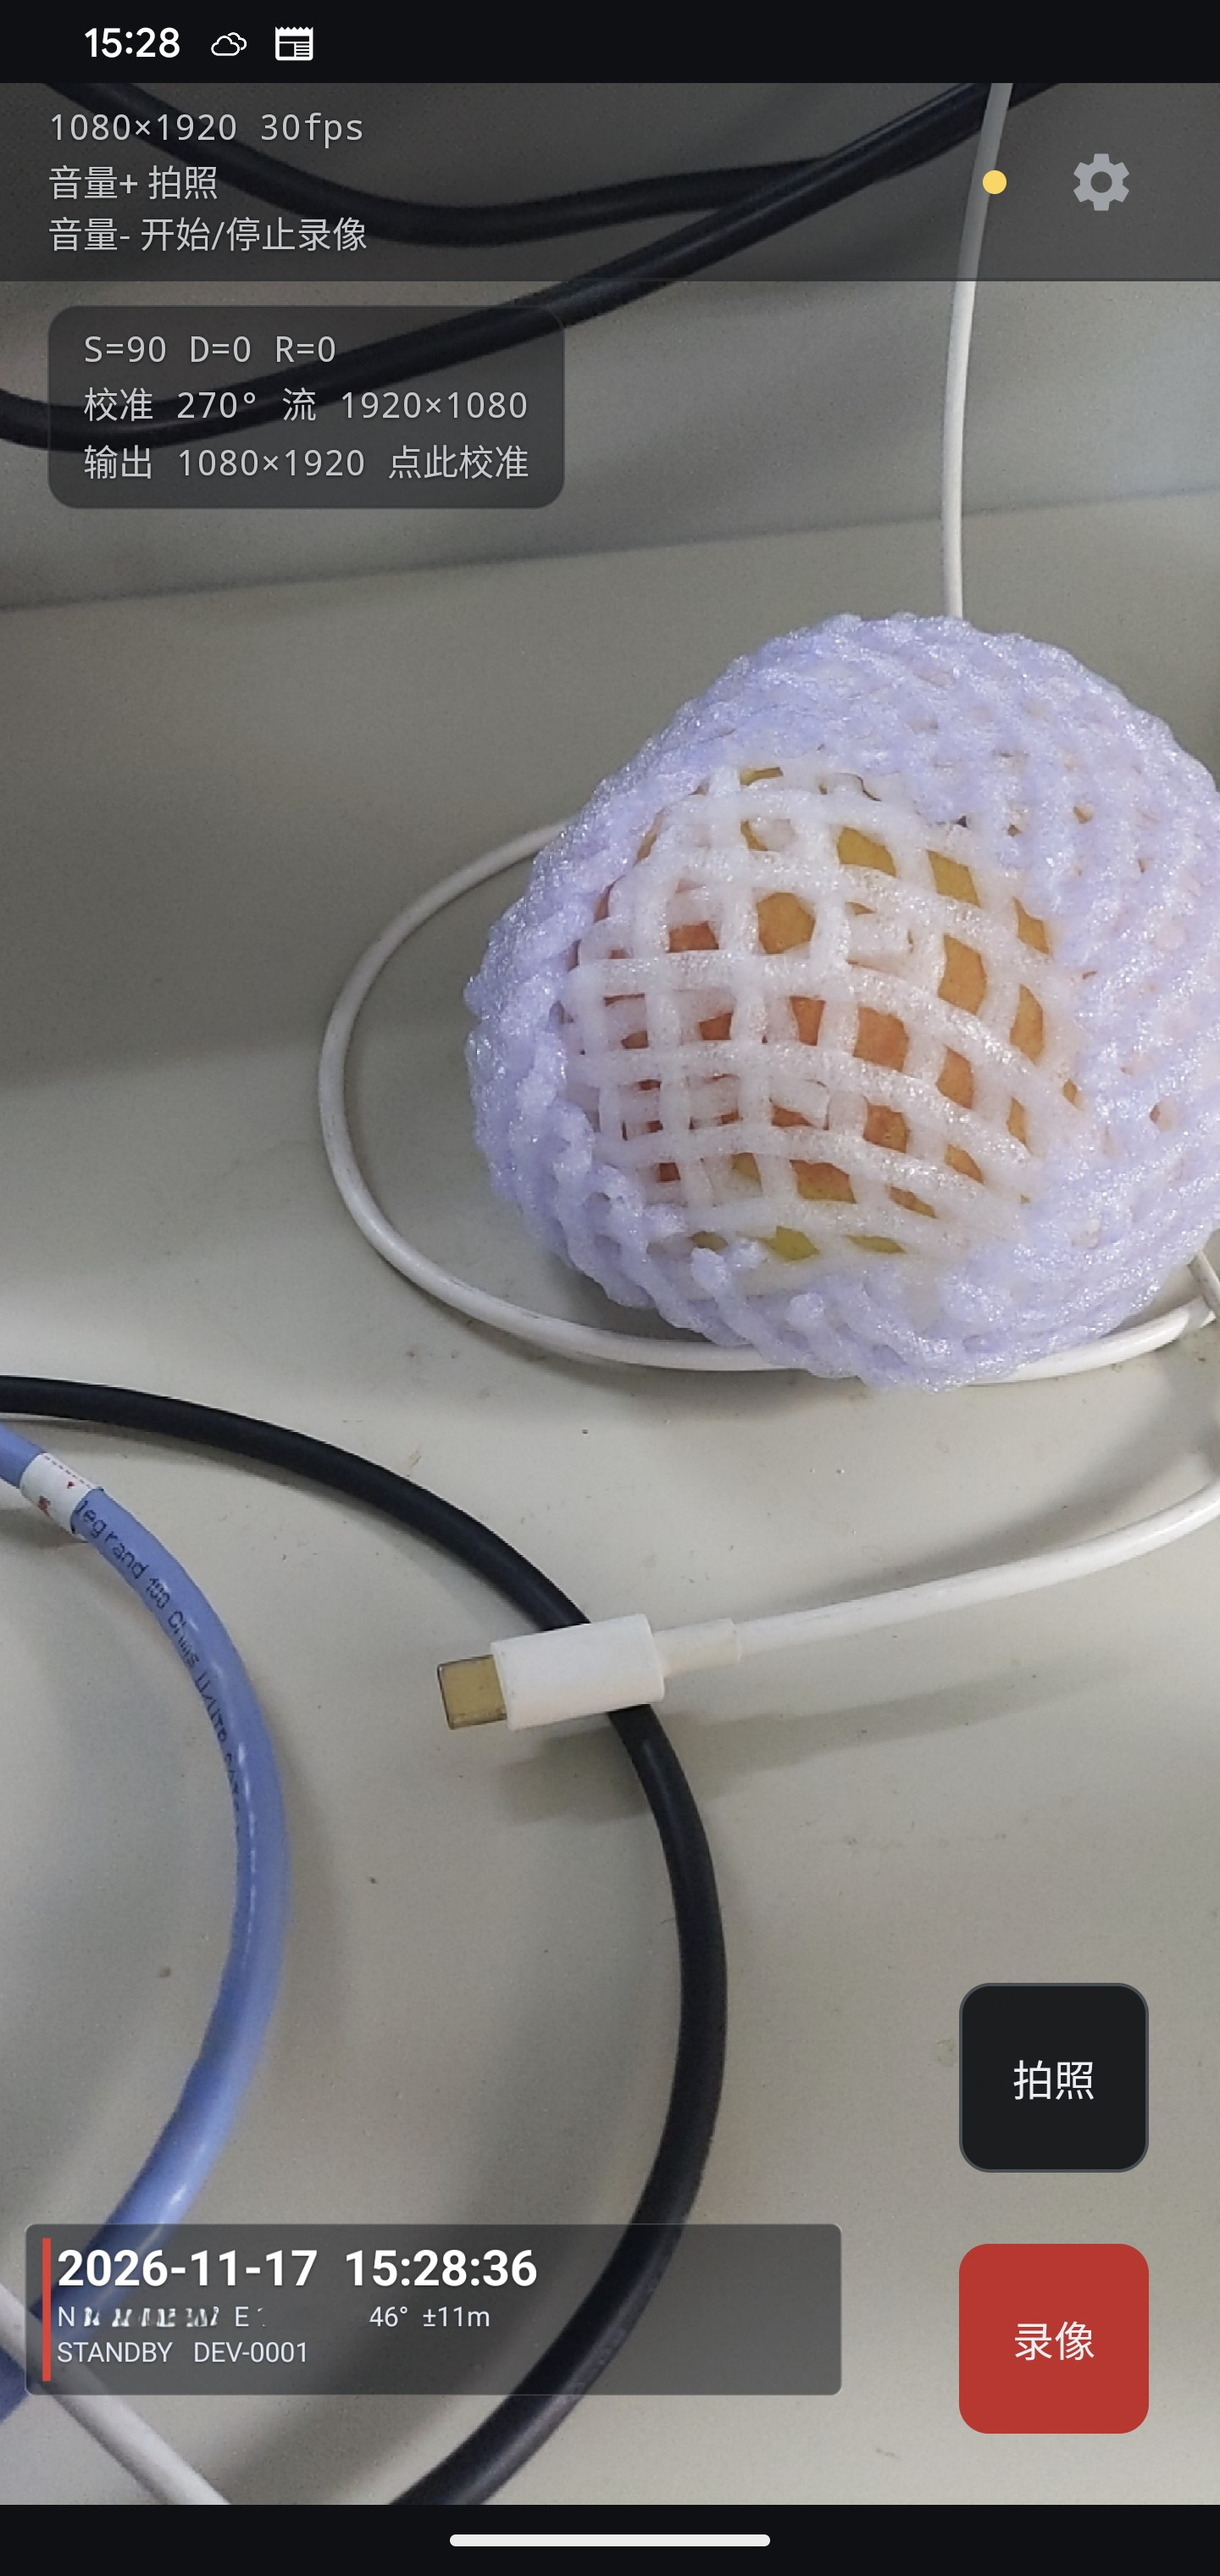
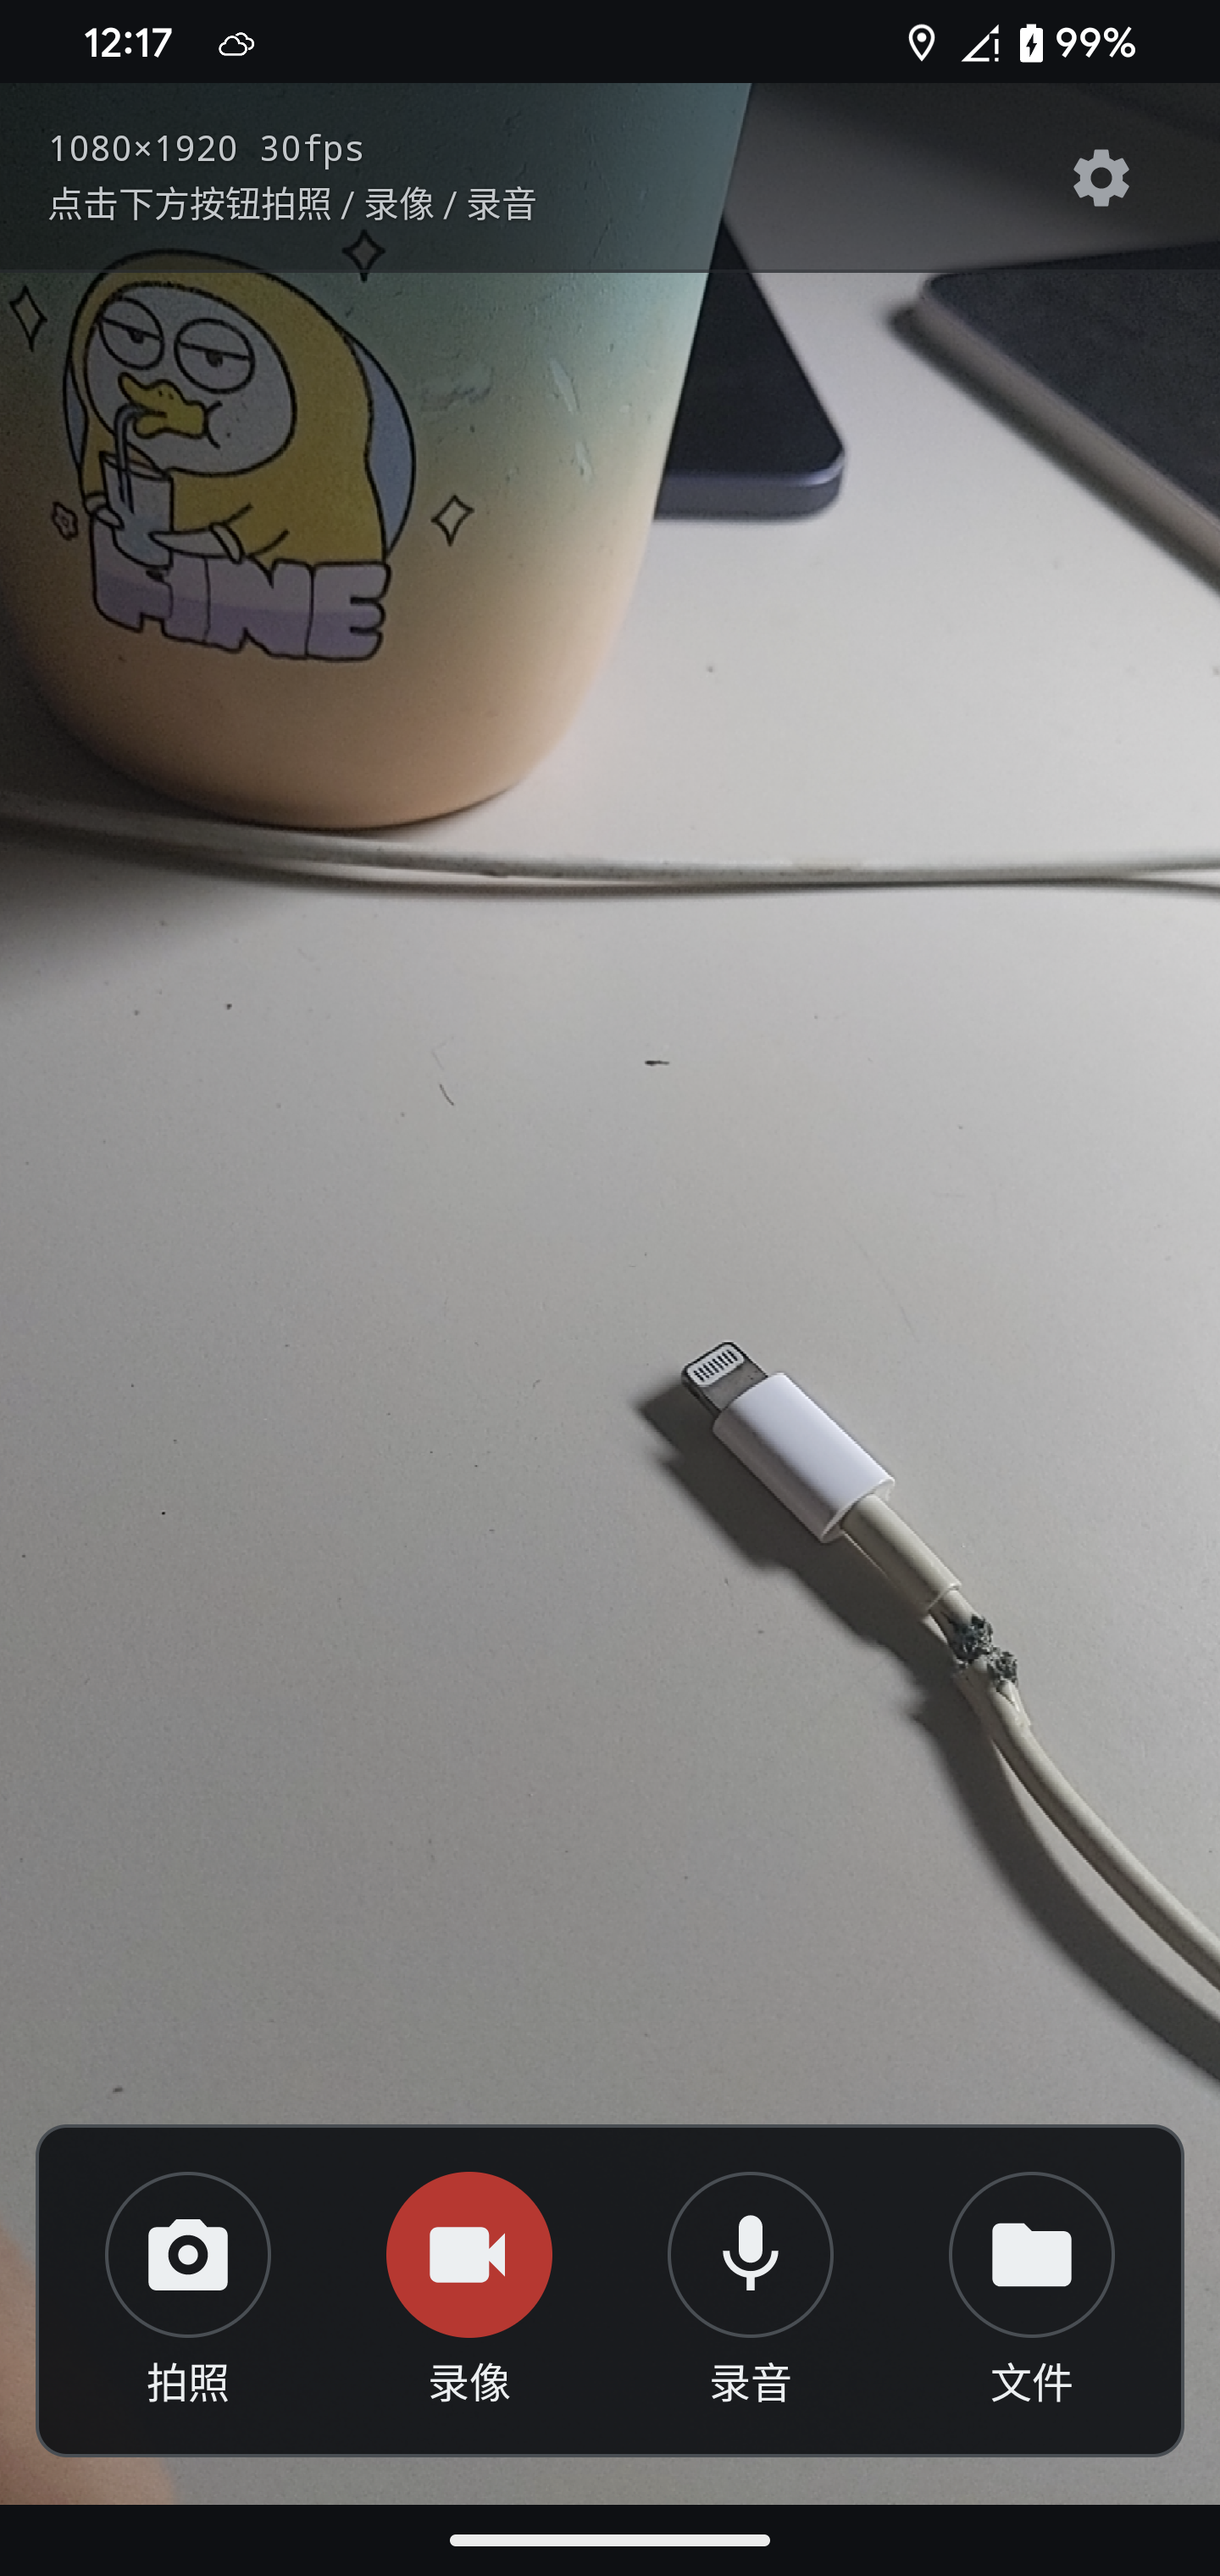
feat: 调试校准行改为设置项，默认隐藏
原来 S/D/R 那块可点击的方向读数面板挂在 AppConfig.DEBUG_OVERLAY 上，是编译期
常量且默认开启，正式装机后也一直占着预览左上角；而它本质是现场排障工具，
不该默认出现在用户眼前。

- SettingsStore 新增 debug_overlay 开关（读写 isDebugOverlayVisible /
  setDebugOverlayVisible），写入后回调通知主页面，改完即时生效
- AppConfig.DEBUG_OVERLAY 降级为「未设置过时的默认值」，改为 false
- MainActivity.updateDebugInfo() 改读设置项；设置变化回调里追加刷新，
  不必重启即可显隐
- 设置页新增「调试校准行」一行（与预录同构：标题 + 说明 + Switch），
  说明里写清它只用于方向校准、正式使用建议关闭
- README 六点五、参数表、注意事项与结构树同步改为「设置页开关控制，默认关闭」

方向不对时的现场流程不变：设置页打开开关 → 点读数面板循环校准 → 0/90/180/270。

diff --git a/app/src/main/java/com/dsh/bodycam/SettingsActivity.kt b/app/src/main/java/com/dsh/bodycam/SettingsActivity.kt
@@ -18,6 +18,7 @@ import com.dsh.bodycam.util.StoragePermission
 class SettingsActivity : Activity() {
 
     private lateinit var swPreRecord: Switch
+    private lateinit var swDebugOverlay: Switch
     private lateinit var durationSection: View
     private lateinit var rgDuration: RadioGroup
     private lateinit var storageRow: View
@@ -29,6 +30,7 @@ class SettingsActivity : Activity() {
         setContentView(R.layout.activity_settings)
 
         swPreRecord = findViewById(R.id.swPreRecord)
+        swDebugOverlay = findViewById(R.id.swDebugOverlay)
         durationSection = findViewById(R.id.durationSection)
         rgDuration = findViewById(R.id.rgDuration)
         storageRow = findViewById(R.id.storageRow)
@@ -44,6 +46,11 @@ class SettingsActivity : Activity() {
         swPreRecord.setOnCheckedChangeListener { _, checked ->
             SettingsStore.setPreRecordEnabled(this, checked)
             updateSections()
+        }
+
+        swDebugOverlay.isChecked = SettingsStore.isDebugOverlayVisible(this)
+        swDebugOverlay.setOnCheckedChangeListener { _, checked ->
+            SettingsStore.setDebugOverlayVisible(this, checked)
         }
 
         buildDurationOptions()

diff --git a/app/src/main/java/com/dsh/bodycam/core/SettingsStore.kt b/app/src/main/java/com/dsh/bodycam/core/SettingsStore.kt
@@ -29,6 +29,7 @@ object SettingsStore {
     private const val KEY_TRIGGER_ACTION_SHUTTER = "trigger_action_shutter"
     private const val KEY_TRIGGER_ACTION_RECORD = "trigger_action_record"
     private const val KEY_TRIGGER_ACTION_AUDIO = "trigger_action_audio"
+    private const val KEY_DEBUG_OVERLAY = "debug_overlay"
 
     /** 预录时长可选项 */
     val PRE_RECORD_OPTIONS = intArrayOf(5, 10, 20, 30)
@@ -67,6 +68,17 @@ object SettingsStore {
 
     fun setPreRecordSeconds(context: Context, seconds: Int) {
         prefs(context).edit().putInt(KEY_PRE_RECORD_SECONDS, seconds).apply()
+        listener?.onSettingsChanged()
+    }
+
+    // ------------------------------------------------------------ 调试
+
+    /** 主页面调试校准行（S/D/R 读数，可点校准）是否显示；默认隐藏 */
+    fun isDebugOverlayVisible(context: Context): Boolean =
+        prefs(context).getBoolean(KEY_DEBUG_OVERLAY, AppConfig.DEBUG_OVERLAY)
+
+    fun setDebugOverlayVisible(context: Context, visible: Boolean) {
+        prefs(context).edit().putBoolean(KEY_DEBUG_OVERLAY, visible).apply()
         listener?.onSettingsChanged()
     }
 

diff --git a/app/src/main/java/com/dsh/bodycam/core/AppConfig.kt b/app/src/main/java/com/dsh/bodycam/core/AppConfig.kt
@@ -32,8 +32,11 @@ object AppConfig {
     /** true = 常亮；执法记录仪一般设为 false，让屏幕可以自动熄灭继续录 */
     const val KEEP_SCREEN_ON = false
 
-    /** 调试：左上角显示 S/D/R 与流/输出尺寸，定位设备方向问题用；正式使用可关掉 */
-    const val DEBUG_OVERLAY = true
+    /**
+     * 调试校准行（左上角 S/D/R 与流/输出尺寸，可点校准方向）的**默认**显示状态。
+     * 运行期以设置页开关为准（持久化在 [SettingsStore]），这里只作为未设置过时的默认值。
+     */
+    const val DEBUG_OVERLAY = false
 
     /**
      * 强制画面旋转角度：-1 = 按传感器自动计算，0/90/180/270 = 强制使用。

diff --git a/app/src/main/java/com/dsh/bodycam/MainActivity.kt b/app/src/main/java/com/dsh/bodycam/MainActivity.kt
@@ -186,6 +186,7 @@ class MainActivity : Activity(), TriggerRouter.Listener {
                 runOnUiThread {
                     applyPreRecordSetting()
                     refreshTriggerReceiver()
+                    updateDebugInfo()
                 }
             }
         }
@@ -526,7 +527,7 @@ class MainActivity : Activity(), TriggerRouter.Listener {
 
     private fun updateDebugInfo() {
         if (!this::debugView.isInitialized) return
-        if (!AppConfig.DEBUG_OVERLAY) {
+        if (!SettingsStore.isDebugOverlayVisible(this)) {
             debugView.visibility = View.GONE
             return
         }
